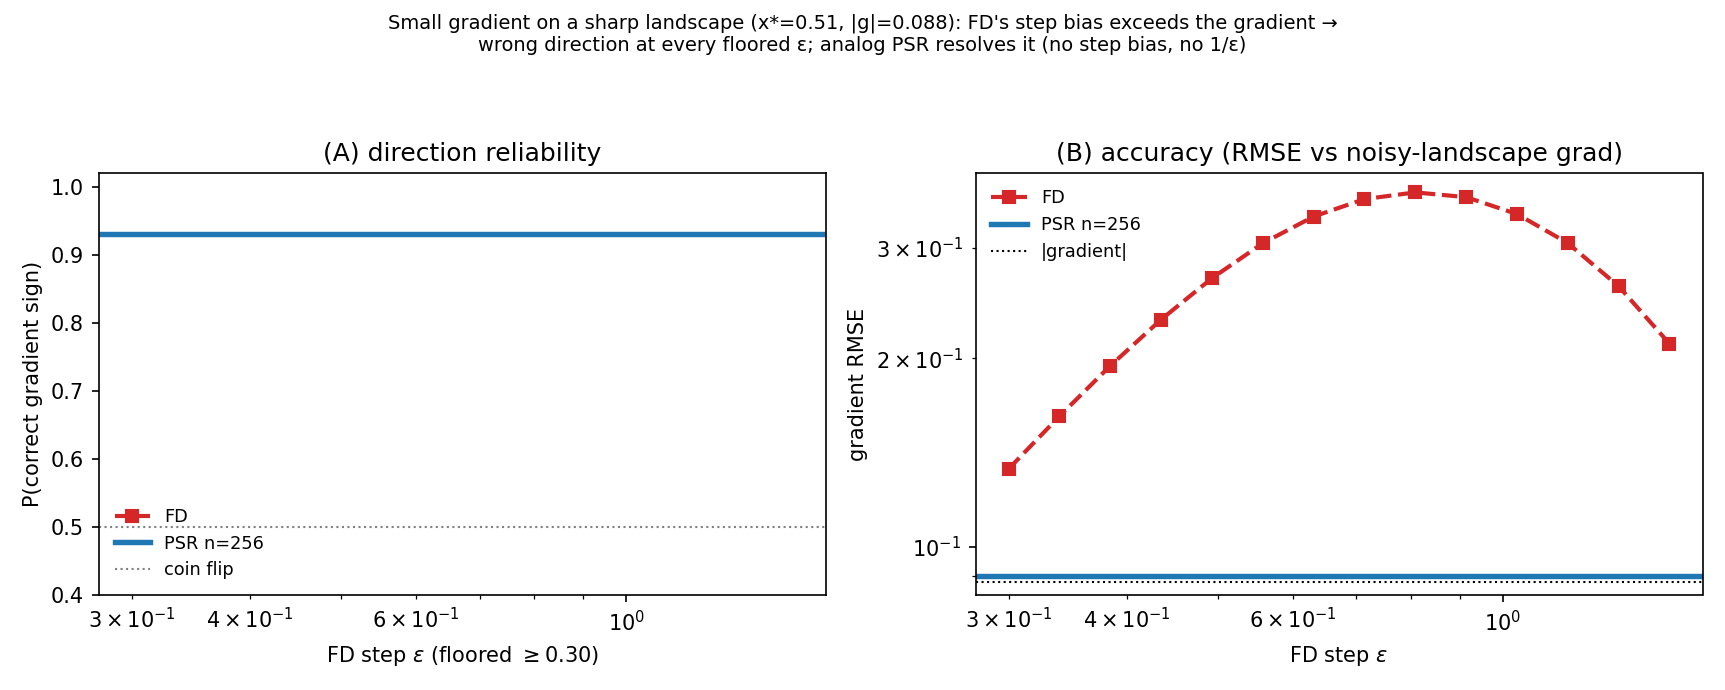
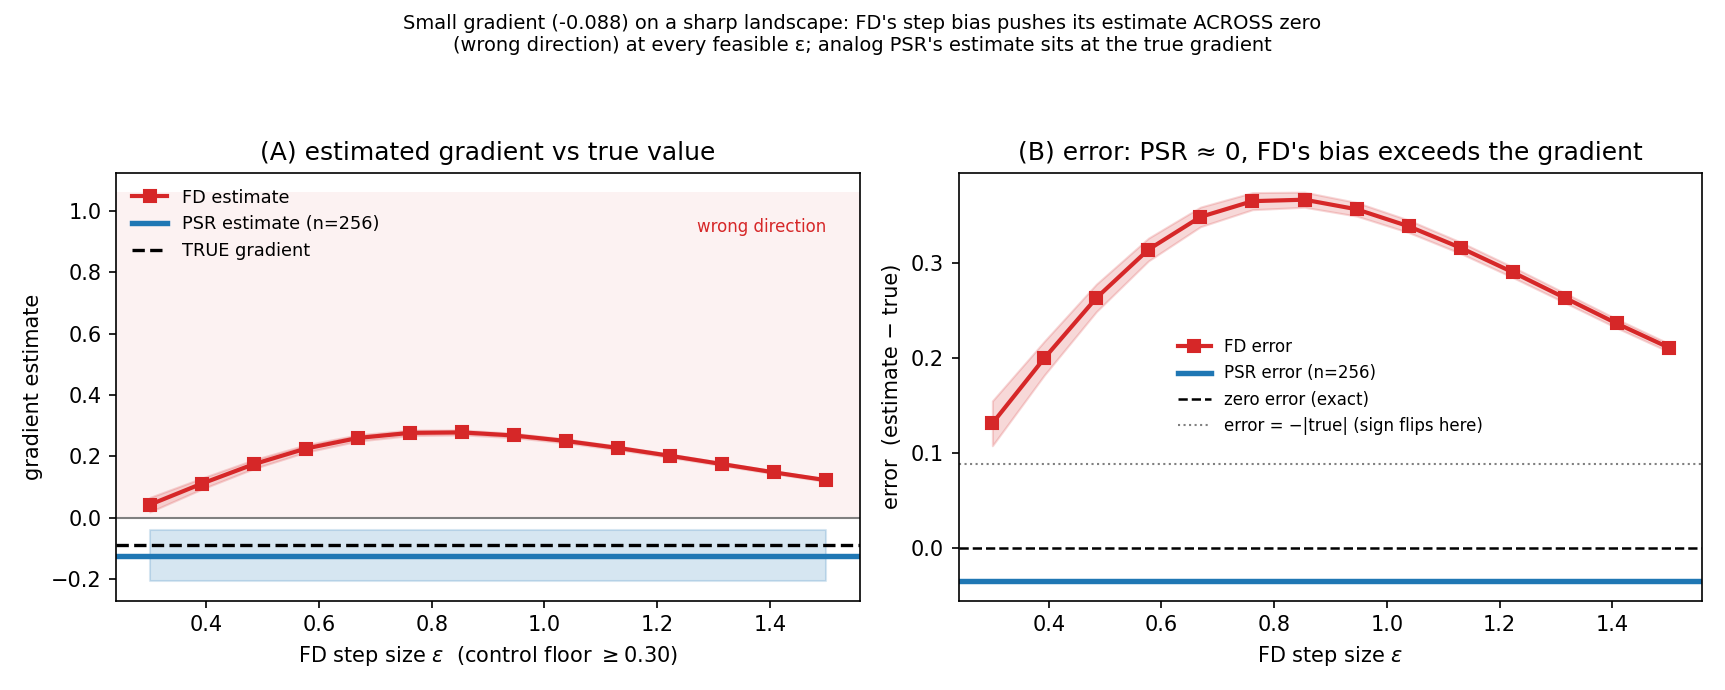
Clearer sharp-small-gradient plot: actual estimate vs true value (linear)
Replaced the log-scale RMSE/sign% plot with a direct, linear-scale view since the
claim is about DIRECTION:
- Panel A: gradient ESTIMATE vs FD ε. TRUE gradient (-0.088) and PSR estimate
  (-0.123±0.083) both sit BELOW zero (correct descent direction); every FD estimate
  (+0.04 to +0.28) sits in the shaded "wrong direction" half-plane above zero.
- Panel B: ERROR (estimate − true). PSR ≈ 0 (-0.035); FD's bias (+0.13 to +0.36)
  exceeds |gradient|, crossing the sign-flip threshold at every feasible ε.

Same data/result as before (FD wrong direction at every ε≥0.30, PSR correct), now
readable at a glance: FD's estimate is on the wrong side of zero, PSR's is at the
true value.

diff --git a/differential_computing/tests/sharp_small_gradient.py b/differential_computing/tests/sharp_small_gradient.py
@@ -129,43 +129,66 @@ def main():
     em, ep, ug = psr_pool(noisy, x_star, 800)
 
     psr = psr_estimates(em, ep, ug, n_sample, N, rng)
-    psr_sign = float(np.mean(np.sign(psr) == sgn))
-    psr_rmse = float(np.sqrt(np.mean((psr - g_truth) ** 2)))
+    psr_mean, psr_std = float(np.mean(psr)), float(np.std(psr))
 
-    eps_grid = np.geomspace(EPS_MIN, 1.5, 14)
-    fd_sign, fd_rmse = [], []
+    eps_grid = np.linspace(EPS_MIN, 1.5, 14)
+    fd_mean, fd_std = [], []
     for eps in eps_grid:
         est = fd_estimates(fn, x_star, float(eps), N, rng)
-        fd_sign.append(float(np.mean(np.sign(est) == sgn)))
-        fd_rmse.append(float(np.sqrt(np.mean((est - g_truth) ** 2))))
+        fd_mean.append(float(np.mean(est)))
+        fd_std.append(float(np.std(est)))
+    fd_mean, fd_std = np.array(fd_mean), np.array(fd_std)
 
-    print(f"noisy-landscape grad={g_truth:+.4f} (sign {int(sgn):+d}), N={N}, "
-          f"T2=2, ε≥{EPS_MIN}.")
-    print(f"  PSR n={n_sample}: P(correct sign)={psr_sign:.2%}, RMSE={psr_rmse:.4f}")
-    print(f"  {'ε':>6}{'FD sign%':>10}{'FD RMSE':>10}")
+    print(f"TRUE noisy-landscape gradient = {g_truth:+.4f}  (descent direction: "
+          f"{'+' if g_truth < 0 else '−'}).  N={N}, T2=2, ε≥{EPS_MIN}.")
+    print(f"  PSR n={n_sample}: estimate {psr_mean:+.4f} ± {psr_std:.4f}  "
+          f"(error {psr_mean - g_truth:+.4f})")
+    print(f"  {'ε':>6}{'FD estimate':>16}{'error':>10}{'sign':>7}")
     for i, eps in enumerate(eps_grid):
-        print(f"  {eps:>6.2f}{fd_sign[i]:>10.2%}{fd_rmse[i]:>10.4f}")
+        ok = "ok" if np.sign(fd_mean[i]) == sgn else "WRONG"
+        print(f"  {eps:>6.2f}{fd_mean[i]:>+11.4f}±{fd_std[i]:.3f}"
+              f"{fd_mean[i] - g_truth:>+10.4f}{ok:>7}")
 
-    fig, (axS, axR) = plt.subplots(1, 2, figsize=(11.5, 4.6), dpi=150)
-    axS.semilogx(eps_grid, fd_sign, "s--", color="#d62728", lw=2, label="FD")
-    axS.axhline(psr_sign, color="#1f77b4", lw=2.6, label=f"PSR n={n_sample}")
-    axS.axhline(0.5, color="gray", ls=":", lw=1, label="coin flip")
-    axS.set_xlabel(r"FD step $\varepsilon$ (floored $\geq$%.2f)" % EPS_MIN)
-    axS.set_ylabel("P(correct gradient sign)")
-    axS.set_title("(A) direction reliability"); axS.set_ylim(0.4, 1.02)
-    axS.legend(frameon=False, fontsize=8.5, loc="lower left")
+    fig, (axE, axB) = plt.subplots(1, 2, figsize=(11.5, 4.6), dpi=150)
 
-    axR.loglog(eps_grid, fd_rmse, "s--", color="#d62728", lw=2, label="FD")
-    axR.axhline(psr_rmse, color="#1f77b4", lw=2.6, label=f"PSR n={n_sample}")
-    axR.axhline(abs(g_truth), color="k", ls=":", lw=1, label="|gradient|")
-    axR.set_xlabel(r"FD step $\varepsilon$"); axR.set_ylabel("gradient RMSE")
-    axR.set_title("(B) accuracy (RMSE vs noisy-landscape grad)")
-    axR.legend(frameon=False, fontsize=8.5)
+    # ── Panel A: actual gradient estimate (linear) vs FD ε ──
+    axE.axhspan(0, axE.get_ylim()[1], facecolor="#fde8e8", alpha=0)  # placeholder
+    axE.fill_between(eps_grid, fd_mean - fd_std, fd_mean + fd_std,
+                     color="#d62728", alpha=0.18)
+    axE.plot(eps_grid, fd_mean, "s-", color="#d62728", lw=2, label="FD estimate")
+    axE.axhline(psr_mean, color="#1f77b4", lw=2.6, label=f"PSR estimate (n={n_sample})")
+    axE.fill_between(eps_grid, psr_mean - psr_std, psr_mean + psr_std,
+                     color="#1f77b4", alpha=0.18)
+    axE.axhline(g_truth, color="k", ls="--", lw=1.6, label="TRUE gradient")
+    axE.axhline(0.0, color="gray", lw=1)
+    # shade the wrong-sign half-plane (gradient is negative → positive = wrong way)
+    lo, hi = axE.get_ylim()
+    axE.axhspan(0.0, hi, facecolor="#d62728", alpha=0.06)
+    axE.text(eps_grid[-1], hi * 0.92, "wrong direction", ha="right", va="top",
+             fontsize=8, color="#d62728")
+    axE.set_xlabel(r"FD step size $\varepsilon$  (control floor $\geq$%.2f)" % EPS_MIN)
+    axE.set_ylabel("gradient estimate")
+    axE.set_title("(A) estimated gradient vs true value")
+    axE.legend(frameon=False, fontsize=8.5, loc="upper left")
 
-    fig.suptitle(f"Small gradient on a sharp landscape (x*={x_star:.2f}, "
-                 f"|g|={abs(g_truth):.3f}): FD's step bias exceeds the gradient →\n"
-                 f"wrong direction at every floored ε; analog PSR resolves it "
-                 f"(no step bias, no 1/ε)", fontsize=9.3)
+    # ── Panel B: error = estimate − true (linear) ──
+    axB.fill_between(eps_grid, (fd_mean - g_truth) - fd_std,
+                     (fd_mean - g_truth) + fd_std, color="#d62728", alpha=0.18)
+    axB.plot(eps_grid, fd_mean - g_truth, "s-", color="#d62728", lw=2, label="FD error")
+    axB.axhline(psr_mean - g_truth, color="#1f77b4", lw=2.6,
+                label=f"PSR error (n={n_sample})")
+    axB.axhline(0.0, color="k", ls="--", lw=1.2, label="zero error (exact)")
+    axB.axhline(-g_truth, color="gray", ls=":", lw=1,
+                label="error = −|true| (sign flips here)")
+    axB.set_xlabel(r"FD step size $\varepsilon$")
+    axB.set_ylabel("error  (estimate − true)")
+    axB.set_title("(B) error: PSR ≈ 0, FD's bias exceeds the gradient")
+    axB.legend(frameon=False, fontsize=8)
+
+    fig.suptitle(f"Small gradient ({g_truth:+.3f}) on a sharp landscape: FD's step "
+                 f"bias pushes its estimate ACROSS zero\n(wrong direction) at every "
+                 f"feasible ε; analog PSR's estimate sits at the true gradient",
+                 fontsize=9.3)
     fig.tight_layout(rect=(0, 0, 1, 0.92))
     out = os.path.abspath(os.path.join(os.path.dirname(__file__), "..",
                                        "figures", "sharp_small_gradient.png"))
